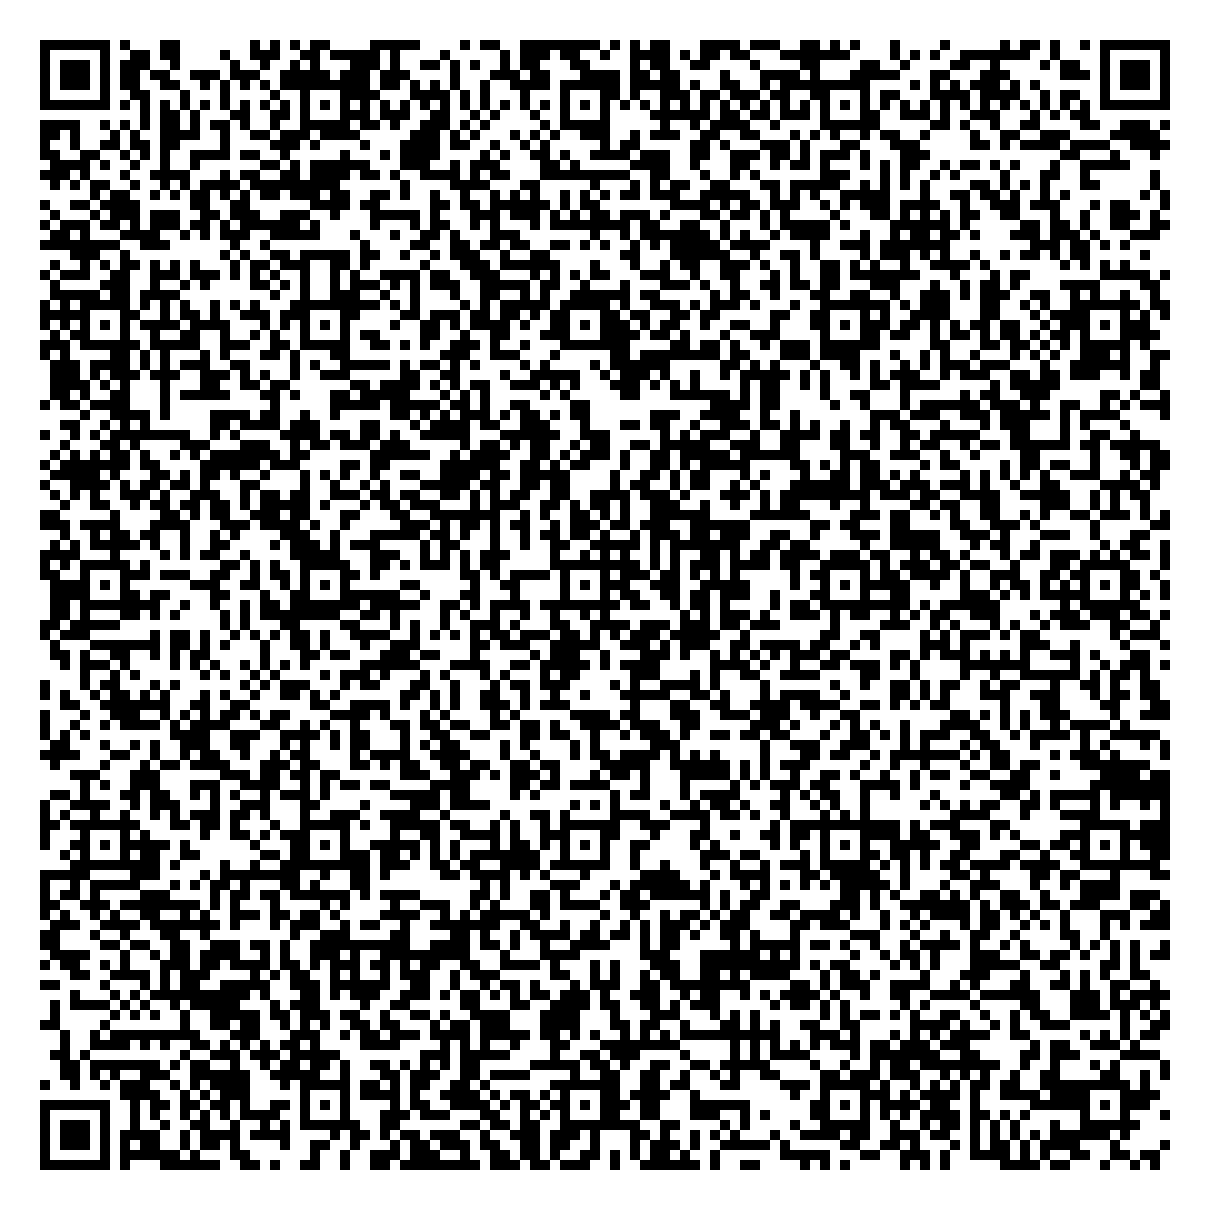
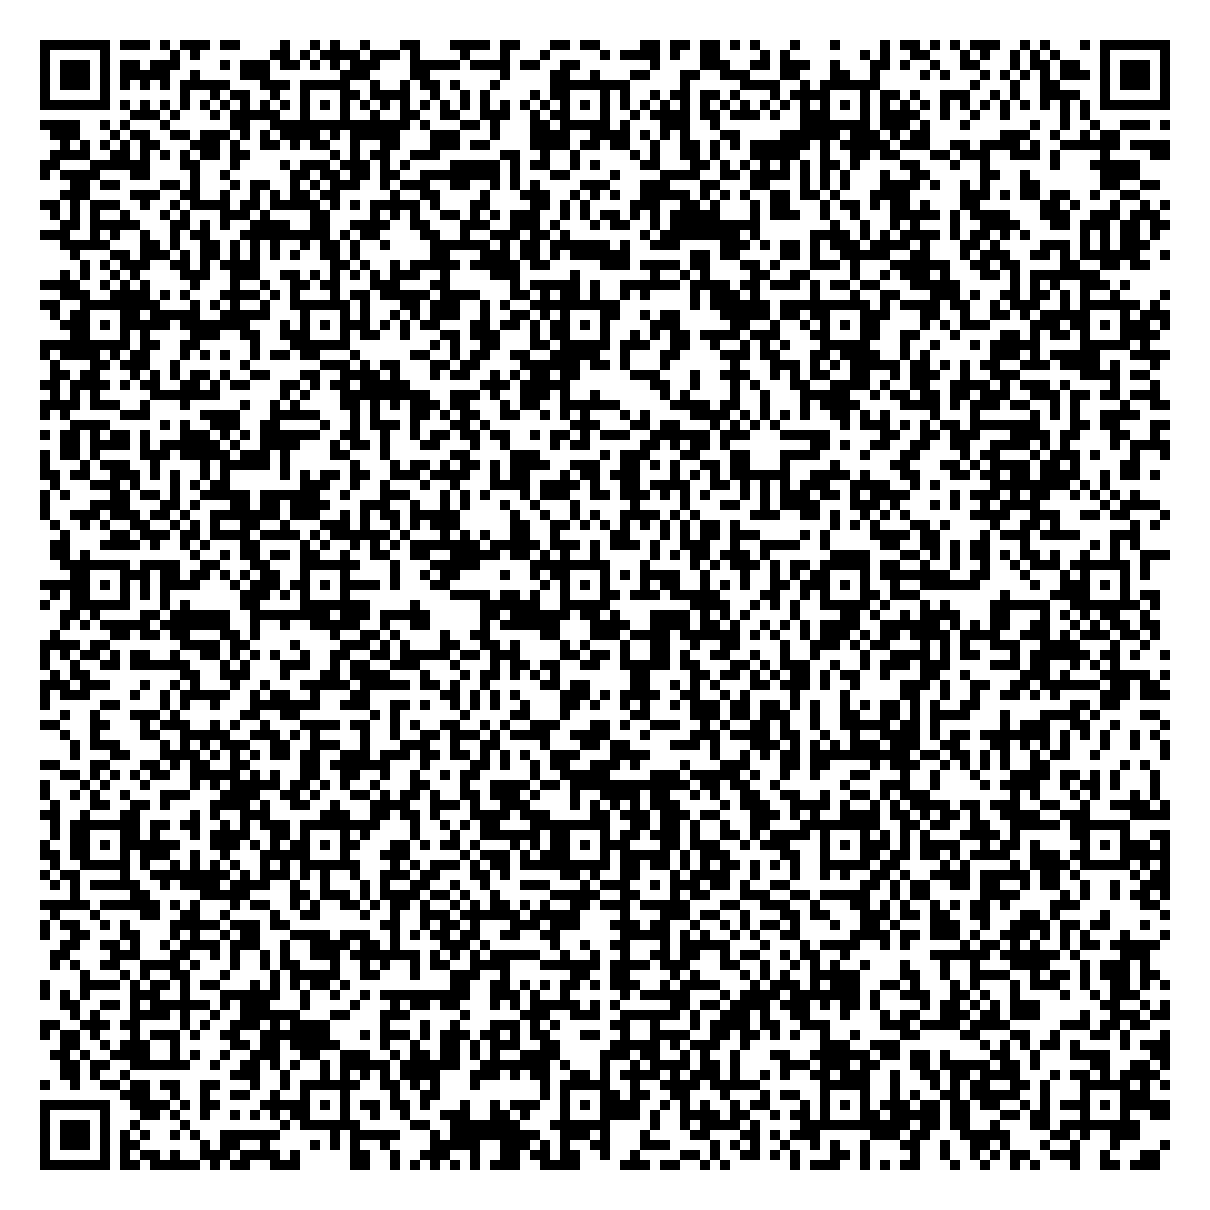
Encryption bugged again

diff --git a/static/js/scan.js b/static/js/scan.js
@@ -2,21 +2,19 @@ document.getElementById('qr-form').addEventListener('submit', function(event) {
     event.preventDefault();
     const fileInput = document.getElementById('qr-file');
     const file = fileInput.files[0];
+    const keySelection = document.getElementById('key_selection').value;
+
     if (file) {
         const reader = new FileReader();
         reader.onload = function(e) {
-            console.log("FileReader onload triggered");  // Debug statement
             const image = new Image();
             image.onload = function() {
-                console.log("Image onload triggered");  // Debug statement
                 const canvas = document.createElement('canvas');
                 canvas.width = image.width;
                 canvas.height = image.height;
-                console.log(`Image dimensions: ${image.width}x${image.height}`);  // Log image dimensions
                 const context = canvas.getContext('2d');
                 context.drawImage(image, 0, 0);
                 const imageData = context.getImageData(0, 0, canvas.width, canvas.height);
-                console.log(`Image data: width=${imageData.width}, height=${imageData.height}`);  // Debug statement
 
                 const code = jsQR(imageData.data, canvas.width, canvas.height);
                 if (code) {
@@ -26,9 +24,12 @@ document.getElementById('qr-form').addEventListener('submit', function(event) {
                     fetch('/decode_qr', {
                         method: 'POST',
                         headers: {
-                            'Content-Type': 'application/octet-stream'
+                            'Content-Type': 'application/json'
                         },
-                        body: new Uint8Array(qrData)
+                        body: JSON.stringify({ 
+                            qrData: Array.from(qrData), 
+                            key_selection: keySelection 
+                        })
                     })
                     .then(response => response.json())
                     .then(data => {

diff --git a/templates/scan.html b/templates/scan.html
@@ -1,16 +1,28 @@
 {% extends "base.html" %}
+
+{% block title %}Scan QR Code{% endblock %}
+
 {% block content %}
+<div class="container mt-4">
     <h2>Scan QR Code</h2>
-    <form method="POST" action="{{ url_for('scan') }}" enctype="multipart/form-data">
-        <label for="key_selection">Select Key:</label>
-        <select id="key_selection" name="key_selection">
-            <option value="{{ user }}">Profile Key</option>
-            {% for group in groups %}
-                <option value="{{ group }}">{{ group }} Key</option>
-            {% endfor %}
-        </select>
-        <label for="file">Upload QR Code:</label>
-        <input type="file" id="file" name="file" required>
-        <button type="submit">Scan</button>
+    <form id="qr-form">
+        <div class="form-group">
+            <label for="key_selection">Select Key Set</label>
+            <select class="form-control" id="key_selection" name="key_selection">
+                <option value="{{ user.username }}">Personal Key</option>
+                {% for group in user.groups %}
+                    <option value="{{ group }}">{{ group }}</option>
+                {% endfor %}
+            </select>
+        </div>
+        <div class="form-group">
+            <label for="qr-file">Upload QR Code Image:</label>
+            <input type="file" id="qr-file" accept="image/png" required>
+        </div>
+        <button type="submit" class="btn btn-primary">Scan</button>
     </form>
+    <p id="qr-result"></p>
+</div>
+<script src="https://cdn.jsdelivr.net/npm/jsqr/dist/jsQR.js"></script>
+<script src="{{ url_for('static', filename='js/scan.js') }}"></script>
 {% endblock %}

diff --git a/utils/database.py b/utils/database.py
@@ -70,10 +70,10 @@ class Database:
 
     def get_user_info(self, username):
         with self.conn:
-            result = self.conn.execute('''
-                SELECT username, email FROM users WHERE username = ?
-            ''', (username,)).fetchone()
-            return result
+            user = self.conn.execute('SELECT * FROM users WHERE username = ?', (username,)).fetchone()
+            groups = self.conn.execute('SELECT group_name FROM group_members WHERE username = ?', (username,)).fetchall()
+            return {'username': user['username'], 'email': user['email'], 'groups': [g['group_name'] for g in groups]}
+
 
     def get_public_key(self, username):
         with self.conn:
@@ -84,11 +84,9 @@ class Database:
 
     def get_private_key(self, username):
         with self.conn:
-            private_key_serialized = self.conn.execute('''
-                SELECT private_key FROM users WHERE username = ?
-            ''', (username,)).fetchone()[0]
+            private_key_serialized = self.conn.execute('SELECT private_key FROM users WHERE username = ?', (username,)).fetchone()[0]
             return pickle.loads(private_key_serialized)
-
+        
     def validate_user(self, username, password):
         with self.conn:
             result = self.conn.execute('''
@@ -112,9 +110,7 @@ class Database:
 
     def group_exists(self, group_name):
         with self.conn:
-            result = self.conn.execute('''
-                SELECT 1 FROM groups WHERE group_name = ?
-            ''', (group_name,)).fetchone()
+            result = self.conn.execute('SELECT 1 FROM groups WHERE group_name = ?', (group_name,)).fetchone()
             return result is not None
 
     def get_user_groups(self, username):
@@ -160,6 +156,11 @@ class Database:
                 SELECT public_key FROM groups WHERE group_name = ?
             ''', (group_name,)).fetchone()[0]
             return pickle.loads(public_key_serialized)
+
+    def get_group_private_key(self, group_name):
+        with self.conn:
+            private_key_serialized = self.conn.execute('SELECT private_key FROM groups WHERE group_name = ?', (group_name,)).fetchone()[0]
+            return pickle.loads(private_key_serialized)
 
     def add_notification(self, username, message, group_name=None):
         with self.conn:

diff --git a/app.py b/app.py
@@ -68,11 +68,7 @@ def generate():
 @app.route('/scan', methods=['GET', 'POST'])
 @login_required
 def scan():
-    if request.method == 'POST':
-        key_selection = request.form['key_selection']
-        # Implement logic for handling key selection here
-        # ...
-    return render_template('scan.html', user=session['username'], groups=db.get_user_groups(session['username']))
+    return render_template('scan.html', user=db.get_user_info(session['username']))
 
 @app.route('/account')
 @login_required
@@ -195,6 +191,27 @@ def decline_invitation(notification_id):
     db.delete_notification(notification_id)
     flash(f'Invitation to join {group_name} declined.')
     return redirect(url_for('notifications'))
+
+@app.route('/decode_qr', methods=['POST'])
+@login_required
+@login_required
+def decode_qr():
+    data = request.get_json()
+    qr_data = bytes(data['qrData'])
+    key_selection = data['key_selection']
+
+    # Determine if the key selection is a user or a group
+    if key_selection == session['username']:
+        private_key = db.get_private_key(session['username'])
+    elif db.group_exists(key_selection):
+        private_key = db.get_group_private_key(key_selection)
+    else:
+        return jsonify({'error': 'Invalid key selection'}), 400
+
+    decrypted_message = Decryption(qr_data, private_key)
+    decrypted_message = decrypted_message.decode('utf-8')
+    
+    return jsonify({'decryptedData': decrypted_message})
 
 if __name__ == '__main__':
     app.run(debug=True)

diff --git a/RSAalgorithm.py b/RSAalgorithm.py
@@ -76,9 +76,8 @@ def rsaDecryptWithIntegrity(encryptedData, privateKey):
 
         encryptedMessage = encryptedData[:(keySize*2)]
         encryptedPadding = encryptedData[(keySize*2):]
-        encryptedMessage = (encryptedMessage.decode('utf-8'))
-        decryptedMessage = rsaDecryption(int(encryptedMessage, 16), privateKey)
-        decryptedPadding = rsaDecryption(int(encryptedPadding, 16), privateKey)
+        decryptedMessage = rsaDecryption(int.from_bytes(encryptedMessage, "big"), privateKey)
+        decryptedPadding = rsaDecryption(int.from_bytes(encryptedPadding, "big" ), privateKey)
 
         messageBytes = decryptedMessage.to_bytes((decryptedMessage.bit_length() + 7) // 8, byteorder="big")
         paddingBytes = decryptedPadding.to_bytes(keySize, byteorder="big")

diff --git a/AESalgorithm.py b/AESalgorithm.py
@@ -141,6 +141,6 @@ def Decryption(encrypted_data, privateKey):
 
     decrytedKey = RSA.main(encrypted_data[:2048], False, privateKey)
     encrypted_message = encrypted_data[2048:]
-    encrypted_message = bytes.fromhex(encrypted_message.decode('utf-8'))
+
     decrypted_message = decrypt_aes(encrypted_message, decrytedKey)
     return decrypted_message
